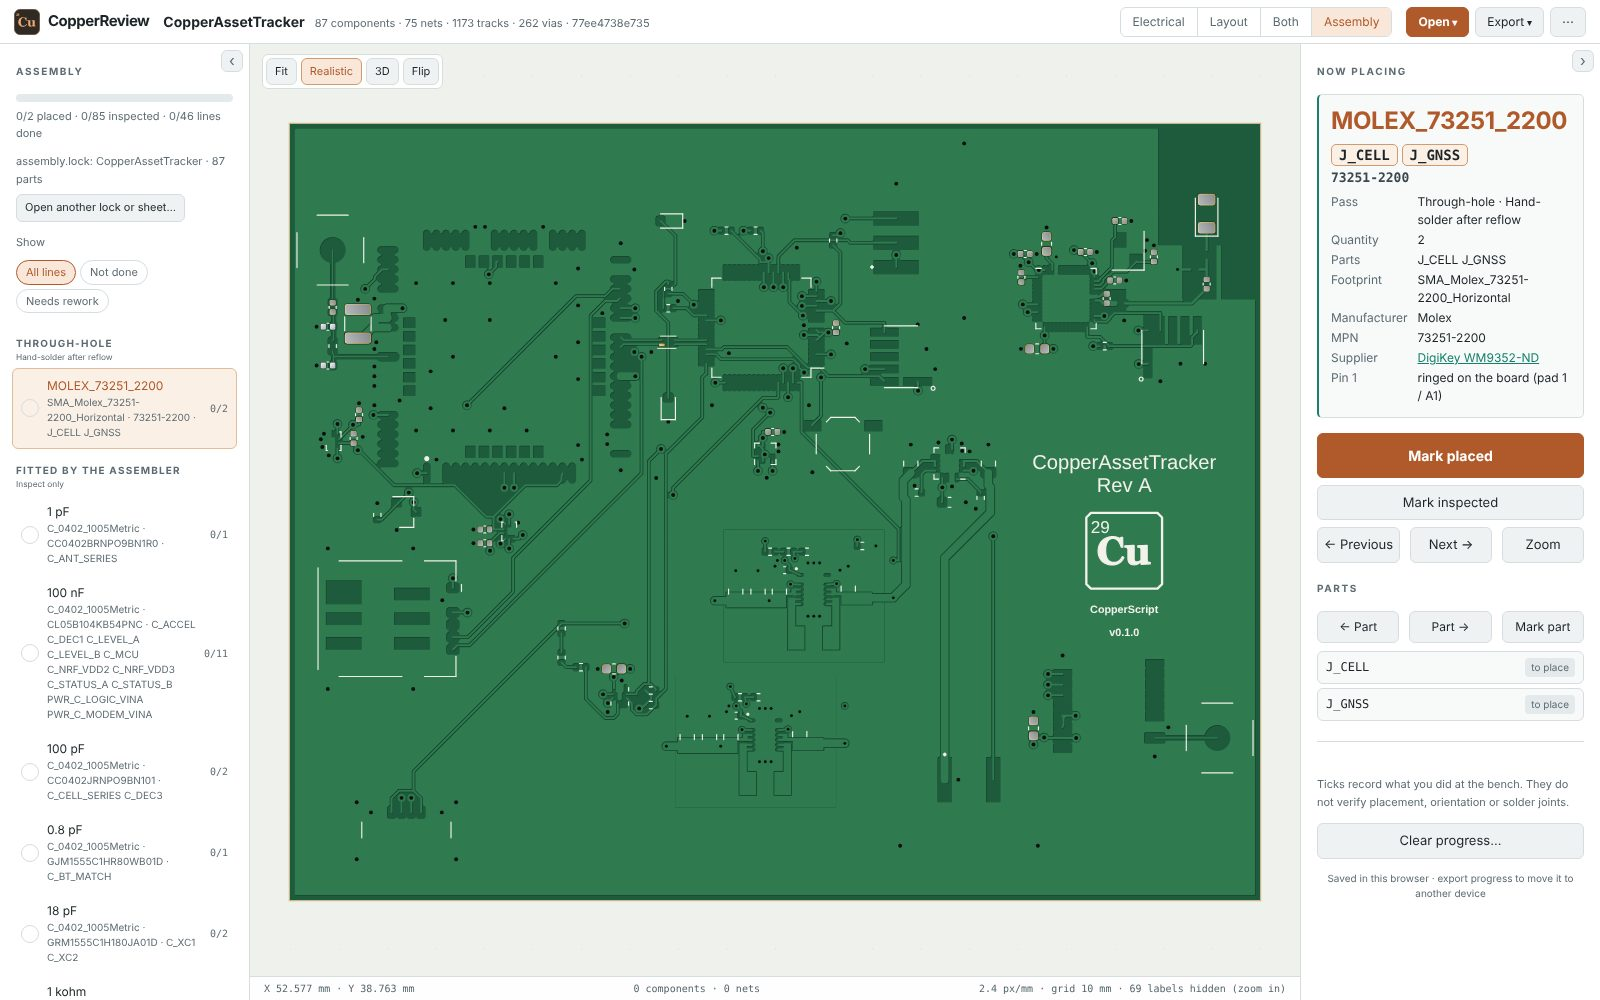
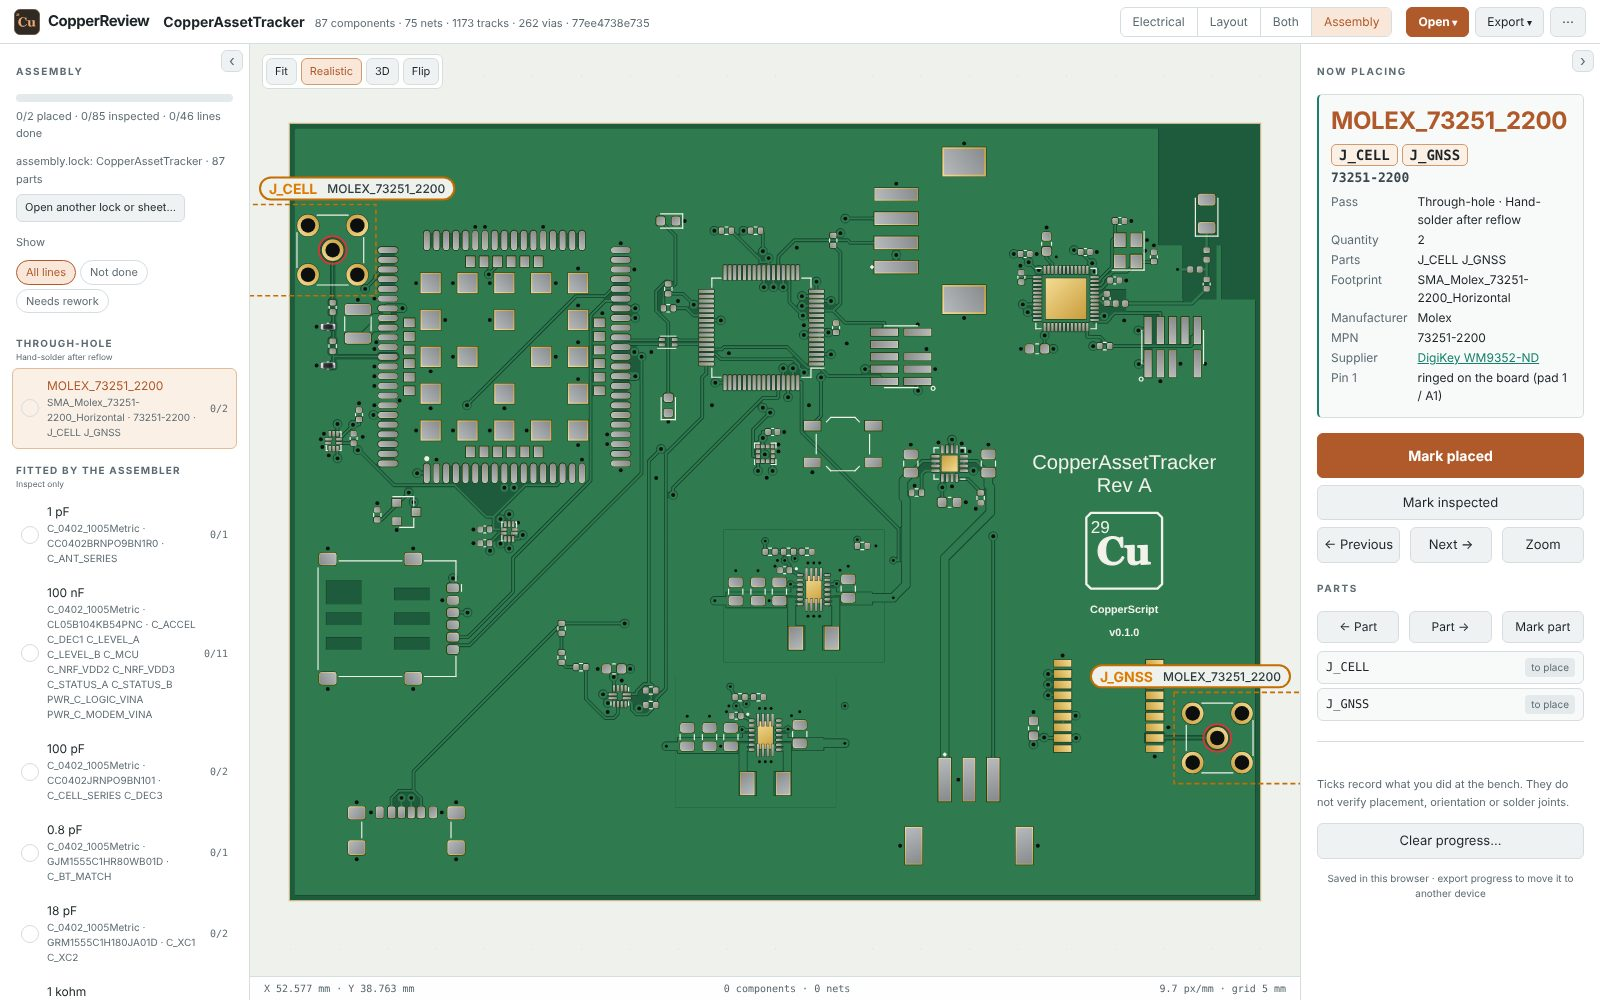
Correct the antenna template's resonance; retake the Assembly screenshot
The example README and research note said the template resonates at
2.93 GHz, 20 % high. That is the synthesis start (quarter-wave length at
the region's full 5.3 mm height) on the coarse mesh. The lowered template
is 3 mm high: on the fine mesh it resonates at 2.73 GHz, 12 % high, and
misses -10 dB even matched (-8.7 dB). State both.

The site's CopperReview Assembly screenshot was taken while a negative
pad corner radius aborted the realistic drawing (fixed in CopperReview);
retake it with the pads, paste and part markers drawn.

Claude-Session: https://claude.ai/code/session_01Ngm2QCwro6P52QwCJpGzAq

diff --git a/site/index.html b/site/index.html
@@ -169,7 +169,7 @@
       <div class="section-heading"><div><p class="eyebrow">07 / REVIEW IN THE BROWSER</p><h2 id="review-title">Inspect the design.<br>Tell the next run what to fix.</h2></div><p>CopperReview opens a board, its schematic and its assembly lock in the browser. It runs the same Rust compiler as WebAssembly, so nothing is installed and sources stay on your computer.</p></div>
       <div class="board-explorer review-explorer">
         <div class="view-bar"><span class="view-title">COPPERREVIEW / COPPERASSETTRACKER</span><div class="view-controls" aria-label="Choose a CopperReview view">
-          <a href="assets/review/review-layout.jpg" data-shot="layout" aria-current="true">Layout</a><a href="assets/review/review-schematic.jpg" data-shot="schematic">Schematic</a><a href="assets/review/review-3d.jpg" data-shot="3d">3D</a><a href="assets/review/review-assembly.jpg" data-shot="assembly">Assembly</a>
+          <a href="assets/review/review-layout.jpg" data-shot="layout" aria-current="true">Layout</a><a href="assets/review/review-schematic.jpg" data-shot="schematic">Schematic</a><a href="assets/review/review-3d.jpg" data-shot="3d">3D</a><a href="assets/review/review-assembly.jpg?v=20261106-pads" data-shot="assembly">Assembly</a>
         </div></div>
         <figure class="review-figure"><div class="review-window"><img id="review-shot" src="assets/review/review-layout.jpg" width="1600" height="1000" loading="lazy" alt="CopperReview layout mode showing all copper layers of CopperAssetTracker, the component list and the note form"></div><figcaption id="review-caption" aria-live="polite">Layout · select components, nets or a region of the routed board, write what you observe and what should improve, and export the notes for the next solver iteration.</figcaption></figure>
       </div>

diff --git a/examples/antenna_synthesis/README.md b/examples/antenna_synthesis/README.md
@@ -34,8 +34,14 @@ copper synthesize-antenna examples/antenna_synthesis/board.copper --report build
 copper route-board examples/antenna_synthesis/board.copper -o build/antenna-synthesis.kicad_pcb --report build/antenna-synthesis-route.json --locked --offline
 ```
 
-On this board the template resonates near 2.93 GHz in the full-wave model,
-20 % above the band, because its permittivity assumes ground under the trace.
+On this board the template lowers to `monopole height=3mm length=17.46mm`.
+Verified on the fine mesh (`--verify` on the board without a `geometry`), it
+resonates at 2.73 GHz, 12 % above the band centre, and misses -10 dB even
+with its best L-section match (-8.7 dB worst in band, 69 % radiation
+efficiency), because its permittivity assumes ground under the trace.
+Synthesis starts from the same quarter-wave length at the region's full
+height (5.3 mm), which resonates at 2.93 GHz on the coarse mesh, and tunes it
+from there.
 `board.copper` carries the synthesized geometry and its `tuned_for` digest: a
 22.66 mm monopole at 2.39 GHz that meets -10 dB over the band with 0.94 nH
 series then 2.61 pF shunt from the antenna side, at 85 % radiation efficiency

diff --git a/docs/pcb-antenna-synthesis-research.md b/docs/pcb-antenna-synthesis-research.md
@@ -373,7 +373,7 @@ sharing the CPU:
 
 | Stage | Geometry | Resonance | Bare | Matched |
 | --- | --- | --- | --- | --- |
-| Template, coarse | monopole 5.3 mm / 17.46 mm | 2.930 GHz | -0.9 dB | -9.7 dB |
+| Start (template length, full height), coarse | monopole 5.3 mm / 17.46 mm | 2.930 GHz | -0.9 dB | -9.7 dB |
 | Resonance tuning, coarse | 22.00 mm | 2.451 GHz | -2.9 dB | -12.5 dB |
 | Polish winner, coarse | 22.66 mm | 2.388 GHz | -3.3 dB | -12.7 dB |
 | Fine verification | 22.66 mm | 2.387 GHz | -3.1 dB | -12.1 dB |
@@ -432,8 +432,10 @@ joined through the refilled zone.
   inside the port.
 - The first-order template uses the microstrip permittivity, which assumes
   ground under the trace; an antenna region has none. On the example board
-  the 17.46 mm template resonates at 2.93 GHz, 20 % high, which is why
-  synthesis matters.
+  the lowered template (`monopole height=3mm length=17.46mm`) resonates at
+  2.73 GHz on the fine mesh, 12 % high, and misses -10 dB even matched
+  (-8.7 dB); the same length at full height, where synthesis starts,
+  resonates at 2.93 GHz on the coarse mesh. That gap is why synthesis matters.
 
 ## Risks
 
